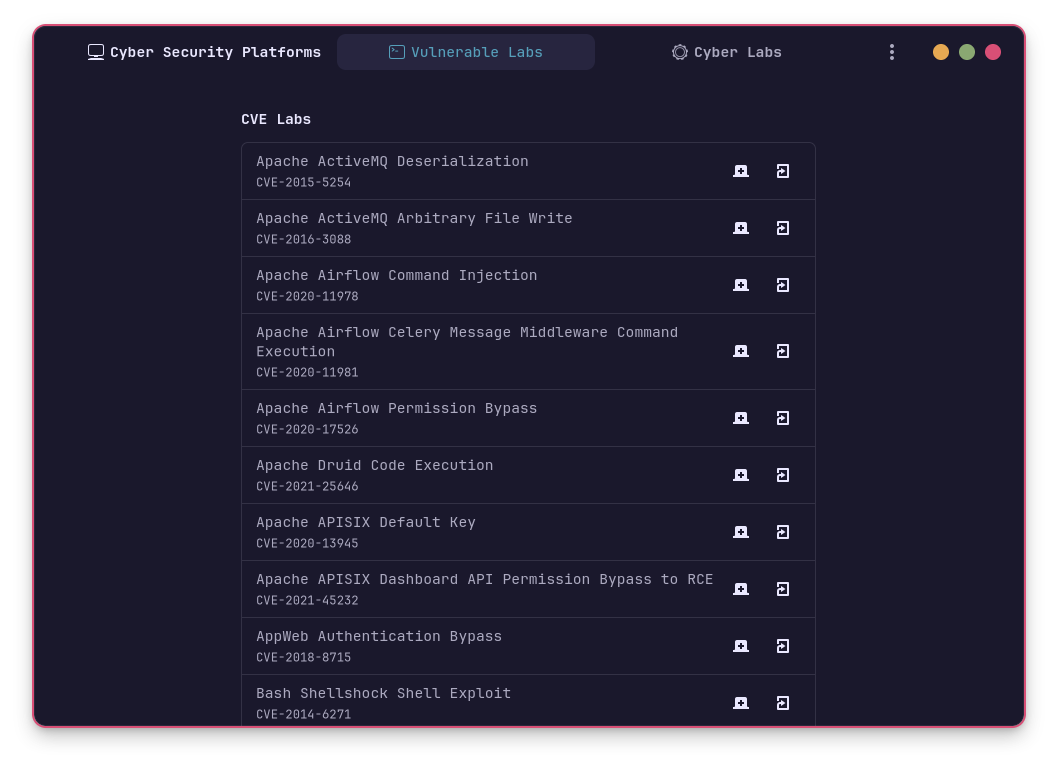
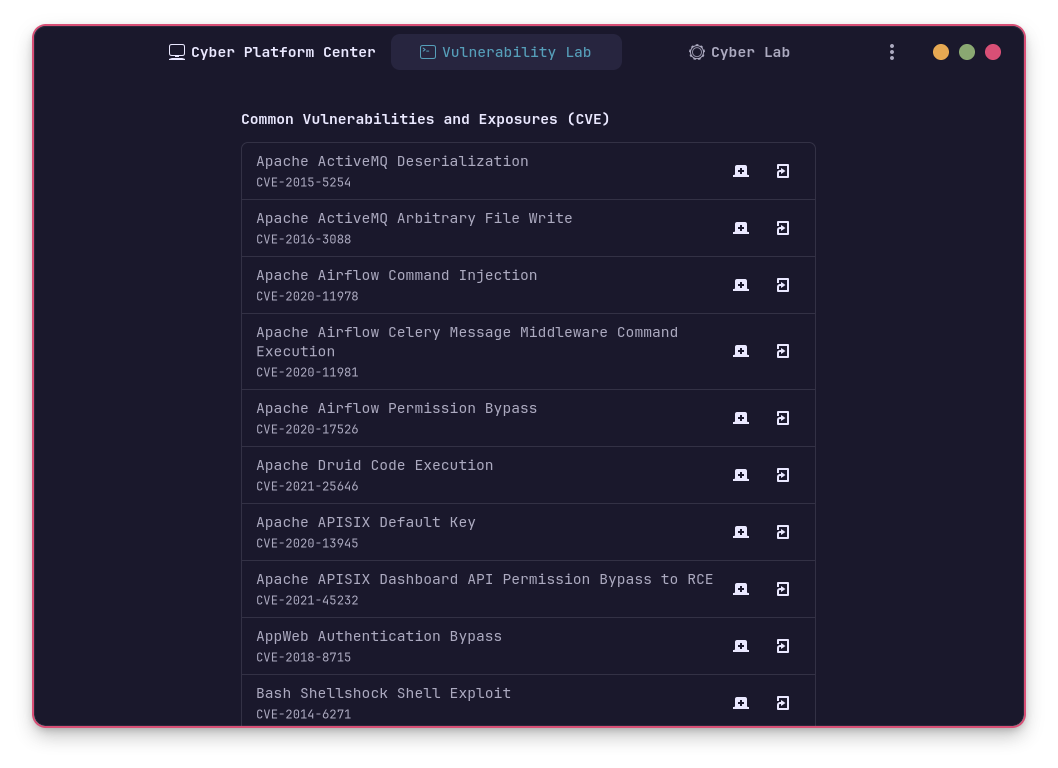
Labels changed

diff --git a/athena_cyber_hub/backends/ach.py b/athena_cyber_hub/backends/ach.py
@@ -37,11 +37,12 @@ class Ach:
     def __init__(self):
         self.__binary = "/usr/bin/docker"
         stat = subprocess.call(["systemctl", "is-active", "--quiet", "docker"])
-        if(stat != 0):  # if 0 (active), otherwise (stopped)"
-            self.docker_start = subprocess.run(["pkexec", "systemctl", "start", "docker"], capture_output=True)
-        else:
-            print("Docker daemon already running.")
-        self.pulled_containers = subprocess.run(["pkexec", self.__binary, "ps", "-a", "--format", "'{{.Image}}'"], capture_output=True)
+        #if(stat != 0):  # if 0 (active), otherwise (stopped)"
+        #    self.docker_start = subprocess.run(["pkexec", "systemctl", "start", "docker"], capture_output=True)
+        #else:
+        #    print("Docker daemon already running.")
+        #self.pulled_containers = subprocess.run(["pkexec", self.__binary, "ps", "-a", "--format", "'{{.Image}}'"], capture_output=True)
+        self.pulled_containers = subprocess.run(["pkexec", "bash", "-c", "systemctl start docker; docker ps -a --format '{{.Image}}'"], capture_output=True)
 
 
     config_directory = os.environ['HOME']+"/.config/athena-cyber-hub"
@@ -67,34 +68,31 @@ class Ach:
         item['name'] = (item['name']).replace('>',"&gt;")
         
         if item['cve']:
-            if item['cve'][0]:
-                img_name = (item['cve'][0]+"-"+re.findall('(.+)(?=/)', item['path'])[0]).lower()
-                alias = img_name
-                __managed_containers[alias] = {
-                    _("Name"): _(item['name']),
-                    _("App"): _(item['app']),
-                    _("CVE"): _(item['cve'][0]),
-                    _("ShellCmd"): f"kgx -e sudo docker compose -f /usr/share/athena-cyber-hub/vulhub/{item['path']}/docker-compose.yml up",
-                    _("InitCmd"): f"kgx -e sudo docker compose -f /usr/share/athena-cyber-hub/vulhub/{item['path']}/docker-compose.yml up",
-                    _("DeleteCmd"): f"kgx -e sudo docker compose -f /usr/share/athena-cyber-hub/vulhub/{item['path']}/docker-compose.yml down -v",
-                    _("ReadCmd"): f"marktext /usr/share/athena-cyber-hub/vulhub/{item['path']}/README.md",
-                }
-            else:
-                img_name = (subprocess.run(["grep", "-h", "-m", "1", "-oP", '(?<=image: ).*|(?<=FROM ).*', "/usr/share/athena-cyber-hub/vulhub/"+item['path']+"/docker-compose.yml", "/usr/share/athena-cyber-hub/vulhub/"+item['path']+"/Dockerfile"], capture_output=True, text=True)).stdout.replace(' ','').replace('\n','') # Getting only the first occurrence of "image:" because we need only the first one for checking if the container is running or not, also for cases where docker-compose.yml are more image names
+            img_name = (item['cve'][0]+"-"+re.findall('(.+)(?=/)', item['path'])[0]).lower()
+            alias = img_name
+            __managed_containers[alias] = {
+                _("Name"): _(item['name']),
+                _("App"): _(item['app']),
+                _("ShellCmd"): f"kgx -e sudo docker compose -f /usr/share/athena-cyber-hub/vulhub/{item['path']}/docker-compose.yml up",
+                _("InitCmd"): f"kgx -e sudo docker compose -f /usr/share/athena-cyber-hub/vulhub/{item['path']}/docker-compose.yml up",
+                _("DeleteCmd"): f"kgx -e sudo docker compose -f /usr/share/athena-cyber-hub/vulhub/{item['path']}/docker-compose.yml down -v",
+                _("ReadCmd"): f"marktext /usr/share/athena-cyber-hub/vulhub/{item['path']}/README.md",
+            }
+        else:
+            img_name = (subprocess.run(["grep", "-h", "-m", "1", "-oP", '(?<=image: ).*|(?<=FROM ).*', "/usr/share/athena-cyber-hub/vulhub/"+item['path']+"/docker-compose.yml", "/usr/share/athena-cyber-hub/vulhub/"+item['path']+"/Dockerfile"], capture_output=True, text=True)).stdout.replace(' ','').replace('\n','') # Getting only the first occurrence of "image:" because we need only the first one for checking if the container is running or not, also for cases where docker-compose.yml are more image names
 
-                if os.path.isfile("/usr/share/athena-cyber-hub/vulhub/"+item['path']+"/docker-compose.yml") and os.path.isfile("/usr/share/athena-cyber-hub/vulhub/"+item['path']+"/Dockerfile"):
-                    img_name = (subprocess.run(["grep", "-h", "-m", "1", "-oP", '(?<=FROM ).*', "/usr/share/athena-cyber-hub/vulhub/"+item["path"]+"/Dockerfile"], capture_output=True, text=True)).stdout.replace(' ','').replace('\n','') # If the folder has both docker-compose.yml and Dockerfile, take the image name from Dockerfile
+            if os.path.isfile("/usr/share/athena-cyber-hub/vulhub/"+item['path']+"/docker-compose.yml") and os.path.isfile("/usr/share/athena-cyber-hub/vulhub/"+item['path']+"/Dockerfile"):
+                img_name = (subprocess.run(["grep", "-h", "-m", "1", "-oP", '(?<=FROM ).*', "/usr/share/athena-cyber-hub/vulhub/"+item["path"]+"/Dockerfile"], capture_output=True, text=True)).stdout.replace(' ','').replace('\n','') # If the folder has both docker-compose.yml and Dockerfile, take the image name from Dockerfile
 
-                alias = img_name
-                __additional_containers[alias] = {
-                    _("Name"): _(item['name']),
-                    _("App"): _(item['app']),
-                    _("CVE"): _(item['cve'][0]),
-                    _("ShellCmd"): f"kgx -e sudo docker compose -f /usr/share/athena-cyber-hub/vulhub/{item['path']}/docker-compose.yml up",
-                    _("InitCmd"): f"kgx -e sudo docker compose -f /usr/share/athena-cyber-hub/vulhub/{item['path']}/docker-compose.yml up",
-                    _("DeleteCmd"): f"kgx -e sudo docker compose -f /usr/share/athena-cyber-hub/vulhub/{item['path']}/docker-compose.yml down -v",
-                    _("ReadCmd"): f"marktext /usr/share/athena-cyber-hub/vulhub/{item['path']}/README.md",
-                }
+            alias = img_name
+            __additional_containers[alias] = {
+                _("Name"): _(item['name']),
+                _("App"): _(item['app']),
+                _("ShellCmd"): f"kgx -e sudo docker compose -f /usr/share/athena-cyber-hub/vulhub/{item['path']}/docker-compose.yml up",
+                _("InitCmd"): f"kgx -e sudo docker compose -f /usr/share/athena-cyber-hub/vulhub/{item['path']}/docker-compose.yml up",
+                _("DeleteCmd"): f"kgx -e sudo docker compose -f /usr/share/athena-cyber-hub/vulhub/{item['path']}/docker-compose.yml down -v",
+                _("ReadCmd"): f"marktext /usr/share/athena-cyber-hub/vulhub/{item['path']}/README.md",
+            }
         
 
 #######################################################
@@ -256,7 +254,7 @@ class Ach:
             _container = {
                 "Name": container["Name"],
                 "Status": 1,
-                "Alias": container["CVE"], # It will show CVE as subtitle on the GTK window
+                "Alias": (re.findall('cve-\d{4}-\d{4,7}',alias)[0]).replace('cve','CVE'), # It will show CVE as subtitle on the GTK window
                 "ShellCmd": container["ShellCmd"],
                 "InitCmd": container["InitCmd"],
                 "DeleteCmd": container["DeleteCmd"],

diff --git a/README.md b/README.md
@@ -1,7 +1,7 @@
 <div align="center">
     <!--<img src="data/icons/hicolor/scalable/apps/org.athenaos.CyberHub.svg" height="64">-->
     <h1>Athena OS Cyber Hub</h1>
-    <p>Athena Cyber Hub is a forked version of <a href="https://github.com/Vanilla-OS/vanilla-control-center">Vanilla Control Center</a> with several differences in order to fit the needs of Cyber Security users on <a href="https://github.com/Athena-OS">Athena OS</a>.</p>
+    <p>Athena Cyber Hub (ACH) is a forked version of <a href="https://github.com/Vanilla-OS/vanilla-control-center">Vanilla Control Center</a> with several differences in order to fit the needs of Cyber Security users on <a href="https://github.com/Athena-OS">Athena OS</a>.</p>
     <p>Unlike <a href="https://github.com/Vanilla-OS">Vanilla OS</a>, it replaces distrobox by docker and it is not intended to run operating systems or managing the updates, but it is intended to run vulnerable laboratories for learning purposes and cyber security platforms for offensive and defensive activities.</p>
     <hr />
 </a>
@@ -10,19 +10,19 @@
 </div>
 
 ## Usage
-**Athena OS Cyber Hub (ACH)** provides three sections:
-* Cyber Platforms
-* Vulnerable Labs
-* Cyber Labs
+**Athena OS Cyber Hub** provides three sections:
+* Cyber Platform Center
+* Vulnerability Lab
+* Cyber Lab
 
-#### Cyber Platforms
+#### Cyber Platform Center
 It offers a set of **Cyber Security platforms** used for several purposes (i.e., defensive), as [DefectDojo](https://github.com/DefectDojo/django-DefectDojo) and [GreenBone](https://github.com/greenbone/) tools.
 
-#### Vulnerable Labs
-It contains several **CVE laboratories** from [Vulhub](https://github.com/vulhub/vulhub) where you can train on **real CVEs** to exploit technologies and services. Run your favourite vulnerable environment and get your CVE!
+#### Vulnerability Lab
+It contains several **CVE laboratories** from [Vulhub](https://github.com/vulhub/vulhub) where you can train on **real CVEs** to exploit technologies and services. Furthermore, it provides also several OWASP machines to enjoy with. Run your favourite vulnerable environment and get your CVE!
 
-#### Cyber Labs
-Set your **custom containers** and manage them in a centralized manner! When ACH is run for the first time, it will create `~/.config/athena-cyber-hub/cyberlab.toml` configuration file. Edit it by inserting the required information about your container, and then run ACH. Your containers will be collected in Cyber Labs section.
+#### Cyber Lab
+Set your **custom containers** and manage them in a centralized manner! When ACH is run for the first time, it will create `~/.config/athena-cyber-hub/cyberlab.toml` configuration file. Edit it by inserting the required information about your container, and then run ACH. Your containers will be collected in Cyber Lab section.
 
 Example configuration file:
 ```toml
